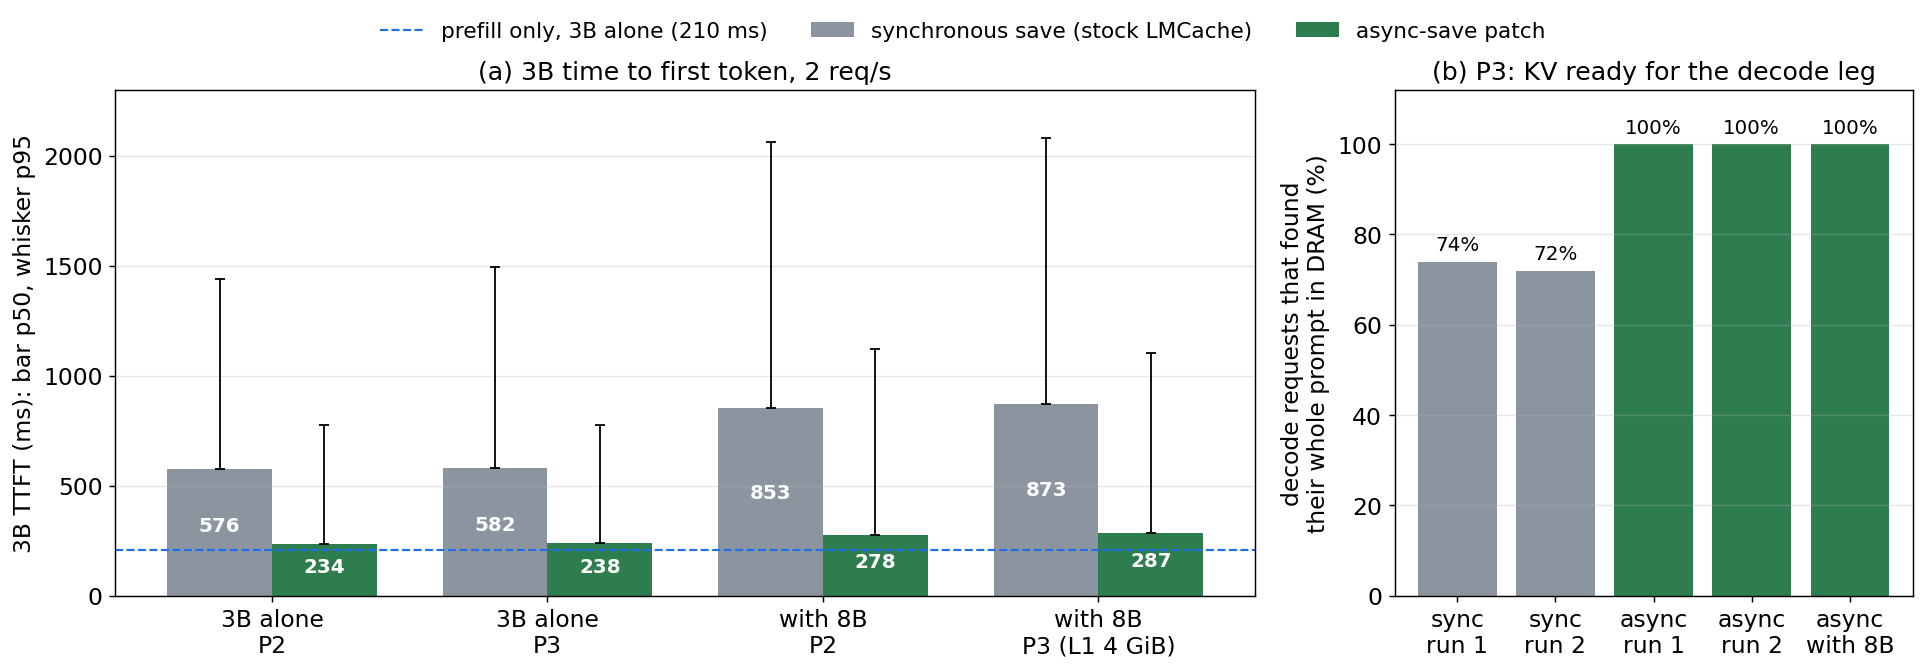
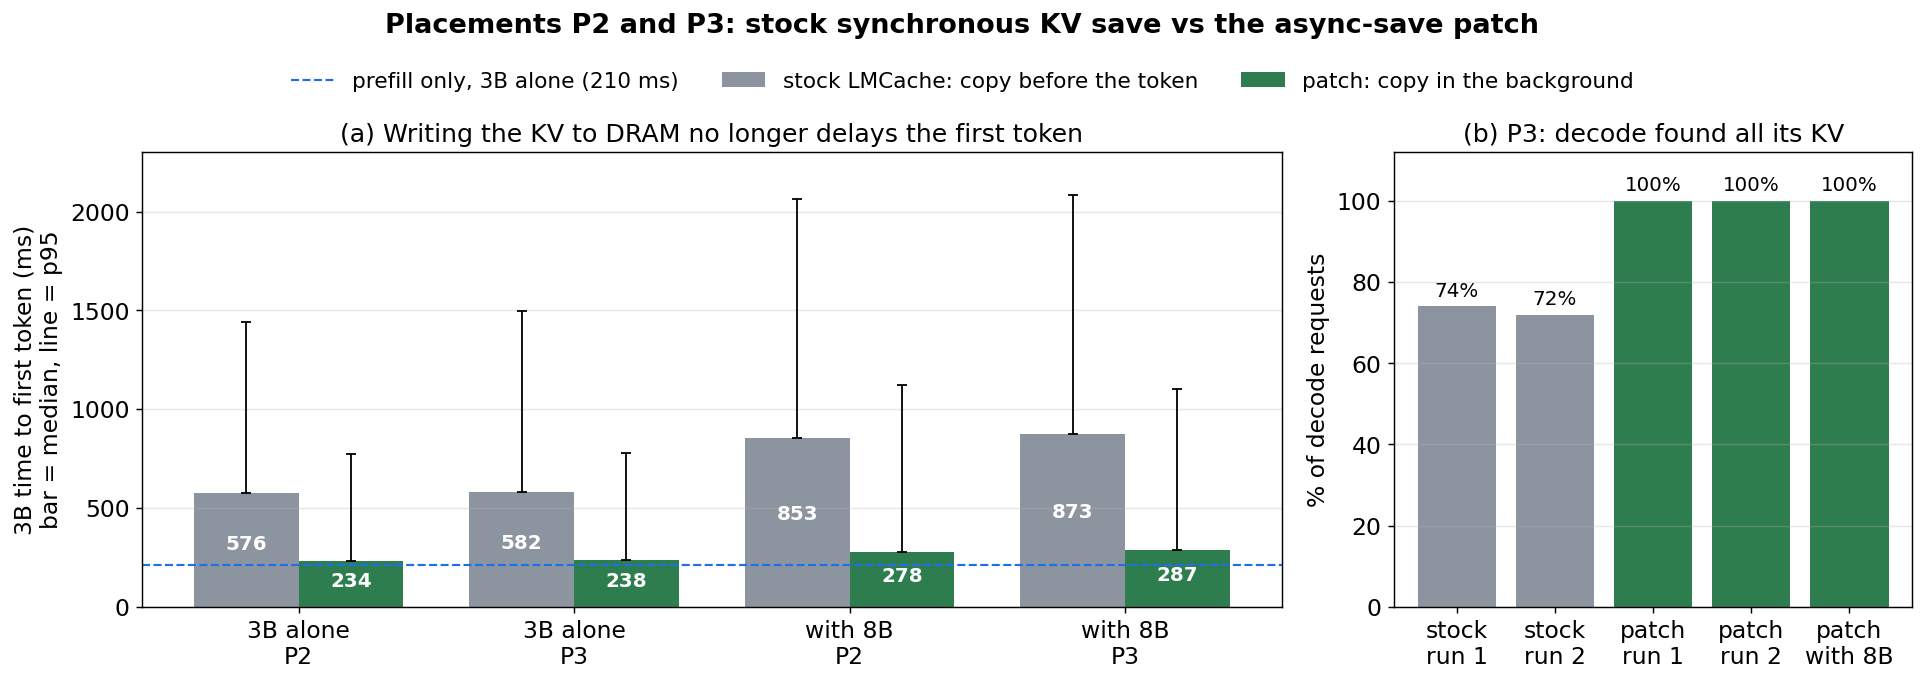
Prefill-coloc report: clearer figures, placement labelled on every result
- pfc_rate: labelled grouped bars per 3B load (throughput from zero), finding-style
  panel titles; pfc_saturation: seconds each 8B request waited for the decode GPU
  (linear) instead of log ms/token; pfc_async: plain-language legend.
- Every result figure names its placements (P1/P2/P3) in the title.
- Report: an experiment-to-placement map before the results, the placement in every
  section heading and a callout under it; captions match the redrawn figures.

diff --git a/scripts/plots/plot_pfc_results.py b/scripts/plots/plot_pfc_results.py
@@ -38,78 +38,84 @@ def f(name, col):
     return float(v) if v not in ("", "None") else np.nan
 
 
+RATES = [("0", None), ("0.5", "_q0.5"), ("1", "_q1"), ("2", "")]
+
+
+def cell(pl, q):
+    return "pfc_base" if q is None else f"pfc_{pl}{q}"
+
+
+def bars(ax, vals, fmt, colors, labels):
+    """Grouped bars over the 3B rates, one group per rate, value on every bar."""
+    xi = np.arange(len(RATES))
+    w = 0.8 / len(vals)
+    for k, (v, c, lab) in enumerate(zip(vals, colors, labels)):
+        xs = xi + (k - (len(vals) - 1) / 2) * w
+        b = ax.bar(xs, v, w, color=c, label=lab)
+        for rect, y in zip(b, v):
+            if np.isfinite(y):
+                ax.text(rect.get_x() + rect.get_width() / 2, y, fmt(y), ha="center",
+                        va="bottom", fontsize=10)
+    ax.set_xticks(xi)
+    ax.set_xticklabels([r for r, _ in RATES])
+    ax.set_xlabel("3B load (requests / s)")
+    ax.grid(alpha=0.3, axis="y")
+
+
 def rate_figure():
-    rates = ["_q0.5", "_q1", ""]
-    x = {pl: [0.0] + [f(f"pfc_{pl}{q}", "sm_req_per_s") for q in rates] for pl in ("p1", "p2")}
-    xs = {pl: [f(f"pfc_{pl}{q}", "sm_req_per_s") for q in rates] for pl in ("s1", "s2")}
-    fig, ax = plt.subplots(1, 4, figsize=(20, 4.8))
+    fig, ax = plt.subplots(1, 3, figsize=(18, 5))
+    cols, labs = [C_P1, C_P2], ["3B prefill only (P1)", "3B prefill + KV to DRAM (P2)"]
+    get = lambda col: [[f(cell(pl, q), col) for _, q in RATES] for pl in ("p1", "p2")]
 
-    for pl, c, lab in (("p1", C_P1, "+ 3B prefill only (P1)"),
-                       ("p2", C_P2, "+ 3B prefill, KV to DRAM (P2)")):
-        tok = [f("pfc_base", "big_tok_per_s")] + [f(f"pfc_{pl}{q}", "big_tok_per_s") for q in rates]
-        qw = [f("pfc_base", "big_decode_queue_ms")] + [f(f"pfc_{pl}{q}", "big_decode_queue_ms") for q in rates]
-        sm = [f("pfc_base", "gpu1_sm_active_mean")] + [f(f"pfc_{pl}{q}", "gpu1_sm_active_mean") for q in rates]
-        ax[0].plot(x[pl], tok, "o-", color=c, lw=2, label=lab)
-        ax[1].plot(x[pl], np.array(qw) / 1000, "o-", color=c, lw=2)
-        ax[3].plot(x[pl], sm, "o-", color=c, lw=2)
-        ttft = [f(f"pfc_{pl}{q}", "sm_ttft_p50_ms") for q in rates]
-        ax[2].plot(x[pl][1:], ttft, "o-", color=c, lw=2)
-    for pl, c in (("s1", C_P1), ("s2", C_P2)):
-        ttft = [f(f"pfc_{pl}{q}", "sm_ttft_p50_ms") for q in rates]
-        ax[2].plot(xs[pl], ttft, "o--", color=c, lw=1.5, mfc="white")
-        sm = [f(f"pfc_{pl}{q}", "gpu1_sm_active_mean") for q in rates]
-        ax[3].plot(xs[pl], sm, "o--", color=c, lw=1.5, mfc="white")
-    ax[2].plot([], [], "k--", lw=1.5, label="3B alone (dashed, open)")
-
-    ts = [r["t_submit"] for r in json.loads((RAW / "pfc_base.json").read_text())["big_records"]]
-    off = 300 * 128 / (max(ts) - min(ts))      # offered tok/s over the arrival span
-    ax[0].axhline(off, color="k", ls=":", lw=1)
-    ax[0].text(2.15, off + 2, "offered", ha="right", va="bottom", fontsize=11)
-    ax[0].set(ylabel="8B output tok/s", ylim=(190, 275), title="(a) 8B throughput")
-    ax[1].set(ylabel="8B decode queue wait, mean (s)", yscale="log", ylim=(0.5, 60),
-              title="(b) 8B decode-engine queue")
-    ax[2].set(ylabel="3B TTFT p50 (ms)", ylim=(0, 950), title="(c) 3B time to first token")
-    ax[3].set(ylabel="GPU1 SM-active (mean)", ylim=(0, 0.75), title="(d) GPU1 compute")
-    for a in ax:
-        a.set_xlabel("3B request rate (req/s)")
-        a.set_xlim(-0.1, 2.3)
-        a.grid(alpha=0.3)
-    h, l = [], []
-    for a in (ax[0], ax[2]):
-        hh, ll = a.get_legend_handles_labels()
-        h += hh; l += ll
-    fig.legend(h, l, loc="upper center", ncol=3, frameon=False, bbox_to_anchor=(0.5, 1.03))
-    fig.suptitle("8B split (decode budget 22 GiB, 2 QPS) + Qwen2.5-3B prefill on the 8B's decode GPU",
-                 y=1.09, fontsize=15)
-    fig.subplots_adjust(wspace=0.38)
+    bars(ax[0], get("big_tok_per_s"), lambda y: f"{y:.0f}", cols, labs)
+    ax[0].set(ylabel="8B output tokens / s", ylim=(0, 285),
+              title="(a) 8B serves less as the 3B load grows")
+    q = [np.array(v) / 1000 for v in get("big_decode_queue_ms")]
+    bars(ax[1], q, lambda y: f"{y:.1f}", cols, labs)
+    ax[1].set(ylabel="seconds", ylim=(0, 31),
+              title="(b) 8B requests wait longer for the decode GPU")
+    bars(ax[2], get("gpu1_sm_active_mean"), lambda y: f"{y:.2f}", cols, labs)
+    ax[2].set(ylabel="fraction of time the SMs are busy", ylim=(0, 0.8),
+              title="(c) The decode GPU (GPU1) is busier")
+    fig.legend(*ax[0].get_legend_handles_labels(), loc="upper center", ncol=2,
+               frameon=False, bbox_to_anchor=(0.5, 1.0))
+    fig.suptitle("Placements P1 and P2: 3B prefill on the 8B's decode GPU", y=1.06,
+                 fontsize=15, fontweight="bold")
+    fig.text(0.5, -0.04, "8B: split, 2 requests/s, decode GPU budget 22 GiB.  3B: a fresh "
+             "6144-token prompt per request, prefilled on the 8B's decode GPU.  "
+             "(b) = mean time an 8B request waits in the decode engine's queue.",
+             ha="center", fontsize=11, color="#444")
+    fig.tight_layout()
     fig.savefig(FIGS / "pfc_rate.png", dpi=130, bbox_inches="tight")
     plt.close(fig)
 
 
 def saturation_figure():
-    cells = [("pfc_base", "8B alone", "k"), ("pfc_p1_q0.5", "+ 3B 0.5 req/s", "#7aa7e8"),
-             ("pfc_p1_q1", "+ 3B 1 req/s", C_P1), ("pfc_p1", "+ 3B 2 req/s", "#0b3d91")]
-    fig, ax = plt.subplots(figsize=(9, 5))
+    """Per 8B request: the time it spent waiting rather than decoding, over the window.
+    Waiting = (end - first token) - 127 tokens x the run's median gap between tokens; the
+    median gap is the same 14.4-14.5 ms in every cell, so the rest is queueing."""
+    cells = [("pfc_base", "no 3B", "k"), ("pfc_p1_q0.5", "3B at 0.5 req/s", "#7aa7e8"),
+             ("pfc_p1_q1", "3B at 1 req/s", C_P1), ("pfc_p1", "3B at 2 req/s", "#0b3d91")]
+    fig, ax = plt.subplots(figsize=(9.5, 5))
     for nm, lab, c in cells:
-        recs = json.loads((RAW / f"{nm}.json").read_text())["big_records"]
-        recs = sorted((r for r in recs if r.get("e2e") and r.get("ttft")), key=lambda r: r["t_submit"])
-        t0 = recs[0]["t_submit"]
-        t = np.array([r["t_submit"] - t0 for r in recs])
-        y = np.array([(r["e2e"] - r["ttft"]) / 127 * 1000 for r in recs])
+        rec = json.loads((RAW / f"{nm}.json").read_text())
+        gap = rec["big_summary"]["itl_ms"]["p50"] / 1000
+        rs = sorted((r for r in rec["big_records"] if r.get("e2e") and r.get("ttft")),
+                    key=lambda r: r["t_submit"])
+        t = np.array([r["t_submit"] - rs[0]["t_submit"] for r in rs])
+        wait = np.array([max(0.0, r["e2e"] - r["ttft"] - 127 * gap) for r in rs])
         k = 15
-        ys = np.convolve(y, np.ones(k) / k, mode="valid")
-        ax.plot(t[k - 1:], ys, color=c, lw=2, label=f"{lab}  (tok/s {f(nm, 'big_tok_per_s'):.0f})")
-    ax.set(xlabel="8B request arrival time in the window (s)",
-           ylabel="ms per output token after token #1\n(rolling mean of 15 requests)",
-           yscale="log", title="8B requests wait longer as the window goes on (P1)")
-    ax.set_ylim(18, 1000)
-    ax.set_yticks([20, 50, 100, 200, 400])
-    ax.yaxis.set_major_formatter(matplotlib.ticker.ScalarFormatter())
-    ax.yaxis.set_minor_formatter(matplotlib.ticker.NullFormatter())
-    ax.grid(alpha=0.3, which="both")
-    ax.legend(frameon=False, loc="upper left", ncol=2, fontsize=11)
+        ax.plot(t[k - 1:], np.convolve(wait, np.ones(k) / k, mode="valid"), color=c, lw=2.2,
+                label=lab)
+    ax.set(xlabel="when the 8B request arrived (s into the run)",
+           ylabel="seconds the request waited\nfor the decode GPU",
+           title="P1: with the 3B at 1-2 req/s the 8B's queue never drains", ylim=(0, None))
+    ax.grid(alpha=0.3)
+    ax.legend(frameon=False, loc="upper left")
+    fig.text(0.5, -0.03, "8B requests, P1 cells; rolling mean of 15 requests.",
+             ha="center", fontsize=11, color="#444")
     fig.tight_layout()
-    fig.savefig(FIGS / "pfc_saturation.png", dpi=130)
+    fig.savefig(FIGS / "pfc_saturation.png", dpi=130, bbox_inches="tight")
     plt.close(fig)
 
 
@@ -117,13 +123,13 @@ def async_figure():
     pairs = [("3B alone\nP2", "pfc_s2", "pfc_s2_async"),
              ("3B alone\nP3", "pfc_s3_v2", "pfc_s3_async_v2"),
              ("with 8B\nP2", "pfc_p2", "pfc_p2_async_r2"),
-             ("with 8B\nP3 (L1 4 GiB)", "pfc_p3_l1x4", "pfc_p3_async_l1x4")]
+             ("with 8B\nP3", "pfc_p3_l1x4", "pfc_p3_async_l1x4")]
     ref = f("pfc_s1", "sm_ttft_p50_ms")
     fig, ax = plt.subplots(1, 2, figsize=(15, 5), gridspec_kw={"width_ratios": [2.2, 1]})
     xi = np.arange(len(pairs))
     w = 0.38
-    for j, (col, c, lab) in enumerate(((1, C_SOLO, "synchronous save (stock LMCache)"),
-                                        (2, C_ASYNC, "async-save patch"))):
+    for j, (col, c, lab) in enumerate(((1, C_SOLO, "stock LMCache: copy before the token"),
+                                        (2, C_ASYNC, "patch: copy in the background"))):
         p50 = [f(p[col], "sm_ttft_p50_ms") for p in pairs]
         p95 = [f(p[col], "sm_ttft_p95_ms") for p in pairs]
         b = ax[0].bar(xi + (j - 0.5) * w, p50, w, color=c, label=lab)
@@ -134,24 +140,26 @@ def async_figure():
                        va="center", fontsize=11, color="white", fontweight="bold")
     ax[0].axhline(ref, color=C_P1, ls="--", lw=1.2,
                   label=f"prefill only, 3B alone ({ref:.0f} ms)")
-    ax[0].set(xticks=xi, xticklabels=[p[0] for p in pairs], ylabel="3B TTFT (ms): bar p50, whisker p95",
-              ylim=(0, 2300), title="(a) 3B time to first token, 2 req/s")
+    ax[0].set(xticks=xi, xticklabels=[p[0] for p in pairs], ylabel="3B time to first token (ms)\nbar = median, line = p95",
+              ylim=(0, 2300), title="(a) Writing the KV to DRAM no longer delays the first token")
     ax[0].grid(alpha=0.3, axis="y")
 
     hit = []
     for nm in ("pfc_s3_v", "pfc_s3_v2", "pfc_s3_async", "pfc_s3_async_v2", "pfc_p3_async_l1x4"):
         d = json.loads((RAW / f"{nm}.json").read_text()).get("decode_hits") or {}
         hit.append(100 * d["full_hits"] / d["n"])
-    lab = ["sync\nrun 1", "sync\nrun 2", "async\nrun 1", "async\nrun 2", "async\nwith 8B"]
+    lab = ["stock\nrun 1", "stock\nrun 2", "patch\nrun 1", "patch\nrun 2", "patch\nwith 8B"]
     ax[1].bar(range(5), hit, color=[C_SOLO, C_SOLO, C_ASYNC, C_ASYNC, C_ASYNC])
     for i, v in enumerate(hit):
         ax[1].text(i, v + 1.5, f"{v:.0f}%", ha="center", va="bottom", fontsize=11)
     ax[1].set(xticks=range(5), xticklabels=lab, ylim=(0, 112),
-              ylabel="decode requests that found\ntheir whole prompt in DRAM (%)",
-              title="(b) P3: KV ready for the decode leg")
+              ylabel="% of decode requests",
+              title="(b) P3: decode found all its KV")
     ax[1].grid(alpha=0.3, axis="y")
     fig.legend(*ax[0].get_legend_handles_labels(), loc="upper center", ncol=3, frameon=False,
-               bbox_to_anchor=(0.5, 1.05))
+               bbox_to_anchor=(0.5, 0.99))
+    fig.suptitle("Placements P2 and P3: stock synchronous KV save vs the async-save patch",
+                 y=1.05, fontsize=15, fontweight="bold")
     fig.tight_layout()
     fig.savefig(FIGS / "pfc_async.png", dpi=130, bbox_inches="tight")
     plt.close(fig)

diff --git a/reports/report_colocation_prefill.md b/reports/report_colocation_prefill.md
@@ -86,14 +86,29 @@ the 3B prefill. Per-model claims rest on client latencies and per-engine metrics
 
 ---
 
-## 2. What the 3B prefill costs the 8B, and what it buys
+## Which experiment ran in which placement
+
+| section | placement(s) | 3B load | with the 8B | 3B alone | KV save |
+|---|---|---|---|---|---|
+| §2 cost and utilization | **P1, P2** | 0.5, 1, 2 req/s | yes | yes | stock (synchronous) |
+| §3 why the 8B saturates | **P1** | 0, 0.5, 1, 2 req/s | yes | — | — |
+| §4 the synchronous save | **P2** | 0.5, 1, 2 req/s | yes | yes | stock |
+| §5 asynchronous save | **P2, P3** | 2 req/s | yes | yes | stock vs patch |
+| §6 the full 3B split | **P3** | 2 req/s | yes (8B pinned memory 8 GiB) | yes | stock vs patch |
+
+P1 = 3B prefill only, KV dropped · P2 = 3B prefill, KV written to DRAM · P3 = 3B
+prefill → DRAM → 3B decode on GPU0. The 3B prefill is on GPU1 in all three.
+
+## 2. What the 3B prefill costs the 8B, and what it buys — P1 and P2
+
+> **Placements: P1 (prefill only) and P2 (prefill + KV to DRAM, stock synchronous
+> save).** 3B at 0.5 / 1 / 2 req/s, beside the 8B and alone.
 
 ![rate sweep](../figures/pfc_rate.png)
 
-*(a) 8B output throughput; dotted = offered over the arrival span (the 8B alone reaches
-97% of it: the fixed 300-request window's drain tail). (b) Mean scheduler queue wait on
-the 8B decode engine, log scale. (c) 3B TTFT p50; dashed open markers = the 3B alone.
-(d) GPU1 SM-active. x = the 3B's realised request rate; 0 = the 8B alone.*
+*8B split at 2 requests/s, decode budget 22 GiB; the 3B's load on the x axis (0 = the 8B
+alone). (a) 8B output throughput. (b) Mean time an 8B request waits in the decode
+engine's queue. (c) GPU1 SM-active (fraction of time the SMs are busy).*
 
 | 3B rate (req/s) | 8B tok/s P1 / P2 | 8B decode queue P1 / P2 | 8B TPOT p50 P1 / P2 | 8B ITL p50 | 3B TTFT p50, alone → with 8B: P1 | P2 (sync save) | GPU1 SM-active / occupancy (P1) |
 |---|---|---|---|---|---|---|---|
@@ -123,12 +138,16 @@ tok/s, TPOT 274 / 276 ms). 8B TTFT p50 stays 167–195 ms in all of them (176 al
   alone as well as colocated — that is the synchronous save of §4, not the 8B.
 - **The 8B's TTFT is a GPU0 quantity and stays put** (167–195 ms vs 176 alone).
 
-## 3. Why the 8B saturates
+## 3. Why the 8B saturates — P1
+
+> **Placement: P1 (prefill only).** The same holds for P2: §2 shows both cost the 8B the
+> same.
 
 ![queue growth](../figures/pfc_saturation.png)
 
-*Per 8B request: time after token #1 divided by the remaining 127 tokens, against its
-arrival time; rolling mean of 15 requests. P1 cells.*
+*Per 8B request (P1 cells): the time it waited instead of decoding — end minus first
+token, minus 127 tokens at the run's median gap between tokens (14.4–14.5 ms in every
+cell) — against when it arrived; rolling mean of 15 requests.*
 
 The 8B decode engine at 22 GiB holds a 5.77 GiB KV grant; each in-flight 8B request
 holds a whole 6272-token prompt (0.77 GiB), so ~7 requests fit at once. By Little's law,
@@ -150,7 +169,10 @@ The baseline's TTFT (176 ms) is higher than the split study's b22 (111 ms) becau
 the smaller prefill grant, not MPS: the 8B alone at prefill util 0.80 reads 77 ms with
 identical TPOT and throughput (`pfc_base_pf80`). All comparisons here are at 0.74.
 
-## 4. Writing the 3B's KV to DRAM: a synchronous copy in front of token #1
+## 4. Writing the 3B's KV to DRAM: a synchronous copy in front of token #1 — P2
+
+> **Placement: P2 (prefill + KV to DRAM), stock LMCache.** Compared against P1, which
+> writes nothing.
 
 Alone at 2 req/s, writing the KV to DRAM raises the 3B's TTFT from 210 to 576 ms. That
 should not happen: token #1 exists as soon as the forward pass ends.
@@ -165,13 +187,17 @@ the service time; at 2 req/s (whole-prompt prefill admits one request per step) 
 multiplies it into +366 ms of TTFT. At 0.6 req/s, where nothing queues, the cost is
 exactly the copy: 266 vs 209 ms.
 
-## 5. An asynchronous save
+## 5. An asynchronous save — P2 and P3
+
+> **Placements: P2 and P3, each with the stock synchronous save and with the patch.**
+> 3B at 2 req/s, beside the 8B and alone.
 
 ![sync vs async](../figures/pfc_async.png)
 
-*(a) 3B TTFT p50 (bar) and p95 (whisker) at 2 req/s, stock synchronous save vs the patch;
-dashed = prefill only, 3B alone. (b) P3: share of decode requests that found their whole
-prompt in the store.*
+*(a) 3B time to first token at 2 req/s (bar = median, line = p95), stock synchronous
+save vs the patch; dashed = prefill only, 3B alone. P3 with the 8B uses 8 GiB of 8B
+pinned memory (§6). (b) P3: share of decode requests that found their whole prompt in
+the store.*
 
 The patch (`scripts/inf_pf_coloc/async_save_patch/`, loaded into the 3B prefill engine
 only) changes three connector methods: `wait_for_save` hands the copy to one background
@@ -213,7 +239,10 @@ the copy is done, and the scheduler frees the blocks (vLLM's own mechanism).
 - **Not handled:** a request preempted while its copy is in flight would lose its blocks
   under the copy (prefill-only engines here never preempt).
 
-## 6. The full 3B split (P3)
+## 6. The full 3B split — P3
+
+> **Placement: P3 (prefill on GPU1 → DRAM → decode on GPU0).** 3B at 2 req/s; beside
+> the 8B only with the 8B's pinned memory cut from 12 to 8 GiB.
 
 With the 8B's two pinned L1 pools at 6 GiB each, P3 does not fit host RAM: available
 memory fell to 4 GB 68 s into the window and mem_guard killed the engines (`pfc_p3`).
